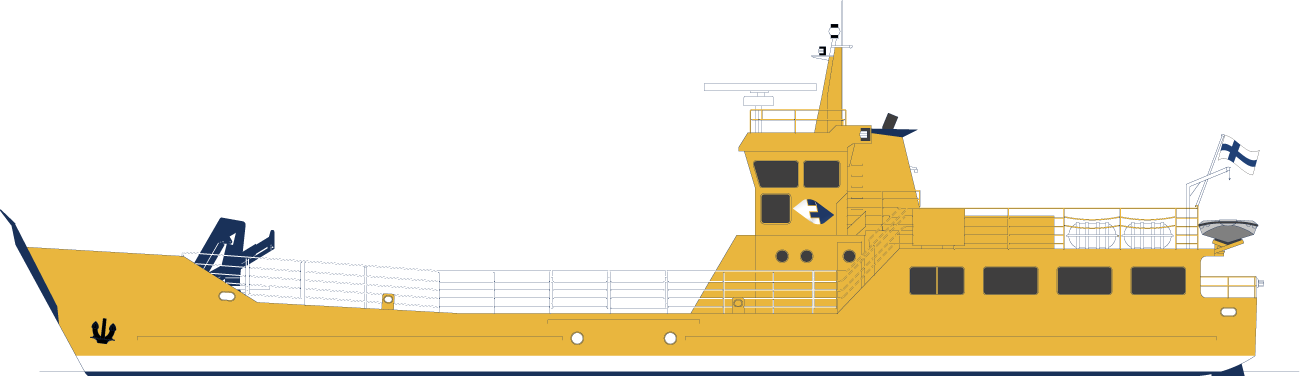
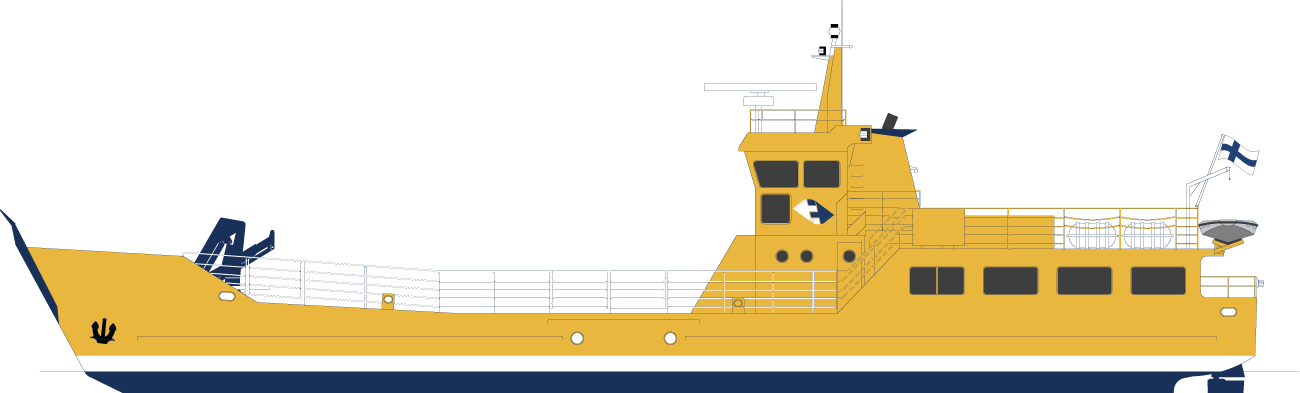
Smooth player boats; Falkö keeps a band of blue bottom
- Player boats and picker thumbnails draw from copies pre-shrunk to
  their on-screen size with high-quality smoothing, so edges are
  anti-aliased; spec points are converted to the smaller texture.
- Falkö obstacle is now mirrored from the hand-cut inbox/falko-cut.png,
  keeping a navy band at the waterline; hitbox and wake points updated.

diff --git a/src/scenes/GameScene.ts b/src/scenes/GameScene.ts
@@ -314,26 +314,65 @@ export class GameScene extends Phaser.Scene {
   /** Dress the player sprite as the chosen boat: art, size, hitbox, bounds. */
   private applyBoat() {
     const spec = this.boatSpec;
-    this.boat.setTexture(spec.key);
-    this.boat.setScale((spec.width * OBJECT_SCALE) / this.boat.frame.width);
+    // Draw from a copy pre-shrunk to the on-screen size (smooth edges); the
+    // spec's points are in original-image px, so convert them by `r`.
+    const width = spec.width * OBJECT_SCALE;
+    this.boat.setTexture(this.smoothTexture(spec.key, width));
+    const r = this.boatTexRatio();
+    this.boat.setScale(width / this.boat.frame.width);
     // Hitbox covers the main hull only, for forgiving collisions. Arcade takes
-    // these in source-image px and scales them with the sprite.
+    // these in texture px and scales them with the sprite.
     const [hx, hy, hw, hh] = spec.hit;
     const body = this.boat.body as Body;
-    body.setSize(hw, hh, false);
-    body.setOffset(hx, hy);
+    body.setSize(hw * r, hh * r, false);
+    body.setOffset(hx * r, hy * r);
     // Bounds keep the boat inside the play area (it clamps to the edges instead
     // of dying there — the only way to fail is touching an obstacle). The
     // bottom is raised by the art below the hitbox, so the hull's visual
     // bottom lands on the deck line rather than crossing it.
-    const below = (this.boat.frame.height - hy - hh) * this.boat.scaleY;
+    const below = (this.boat.frame.height - (hy + hh) * r) * this.boat.scaleY;
     this.physics.world.setBounds(0, 0, GAME_WIDTH, PLAY_HEIGHT - below);
+  }
+
+  /** Player texture px per original-image px (the texture is a shrunk copy). */
+  private boatTexRatio() {
+    return this.boat.frame.width / this.textures.getFrame(this.boatSpec.key).width;
+  }
+
+  /**
+   * A copy of an image shrunk to `width` px with high-quality smoothing, in
+   * halving steps. Shrinking a big image a lot on the GPU each frame samples
+   * only a few of its pixels and leaves jagged edges; drawing a copy at its
+   * on-screen size gives smooth, anti-aliased ones. Cached in the texture
+   * manager, so it is made once per size.
+   */
+  private smoothTexture(key: string, width: number) {
+    const target = Math.max(1, Math.round(width));
+    const out = `${key}@${target}`;
+    if (this.textures.exists(out)) return out;
+    const src = this.textures.get(key).getSourceImage() as HTMLImageElement;
+    const step = (from: CanvasImageSource, w: number, h: number) => {
+      const c = document.createElement("canvas");
+      c.width = w;
+      c.height = h;
+      const ctx = c.getContext("2d")!;
+      ctx.imageSmoothingEnabled = true;
+      ctx.imageSmoothingQuality = "high";
+      ctx.drawImage(from, 0, 0, w, h);
+      return c;
+    };
+    let canvas = step(src, src.width, src.height);
+    while (canvas.width / 2 > target) canvas = step(canvas, Math.ceil(canvas.width / 2), Math.ceil(canvas.height / 2));
+    canvas = step(canvas, target, Math.max(1, Math.round((src.height * target) / src.width)));
+    this.textures.addCanvas(out, canvas);
+    return out;
   }
 
   /** A point on the player's boat in source-image px, as world coordinates (follows its tilt). */
   private boatPoint(px: number, py: number) {
-    const ox = (px - this.boat.frame.width / 2) * this.boat.scaleX;
-    const oy = (py - this.boat.frame.height / 2) * this.boat.scaleY;
+    const r = this.boatTexRatio();
+    const ox = (px * r - this.boat.frame.width / 2) * this.boat.scaleX;
+    const oy = (py * r - this.boat.frame.height / 2) * this.boat.scaleY;
     const c = Math.cos(this.boat.rotation);
     const s = Math.sin(this.boat.rotation);
     return { x: this.boat.x + c * ox - s * oy, y: this.boat.y + s * ox + c * oy };
@@ -356,8 +395,9 @@ export class GameScene extends Phaser.Scene {
     this.pickerCards = PLAYER_BOATS.map((spec, i) => {
       const x = x0 + i * (cardW + gap);
       const card = this.add.graphics();
-      const thumb = this.add.image(x + cardW / 2, y + cardH / 2, spec.key);
-      thumb.setScale(Math.min((cardW - 16) / thumb.width, (cardH - 16) / thumb.height));
+      const src = this.textures.getFrame(spec.key);
+      const fit = Math.min((cardW - 16) / src.width, (cardH - 16) / src.height);
+      const thumb = this.add.image(x + cardW / 2, y + cardH / 2, this.smoothTexture(spec.key, src.width * fit));
       const hit = this.add
         .zone(x, y, cardW, cardH)
         .setOrigin(0)
@@ -1124,9 +1164,9 @@ export class GameScene extends Phaser.Scene {
       b.setSize(473, 47);
       b.setOffset(59, 158);
     } else {
-      // Falkö image (1300 x 376, mirrored, cut at the waterline): main hull
+      // Falkö image (1300 x 393, mirrored, cut at the waterline): main hull
       // below the superstructure
-      b.setSize(1021, 128);
+      b.setSize(1021, 145);
       b.setOffset(140, 243);
     }
 
@@ -1142,8 +1182,8 @@ export class GameScene extends Phaser.Scene {
       this.addVesselWake(ob, type, 290 * scale, 96 * scale, 1.2 * OBJECT_SCALE);
       this.addVesselBowWave(ob, type, -287 * scale, 96 * scale, 1.5 * OBJECT_SCALE);
     } else if (type === "falko") {
-      this.addVesselWake(ob, type, 594 * scale, 184 * scale, 1.2 * OBJECT_SCALE);
-      this.addVesselBowWave(ob, type, -565 * scale, 184 * scale, 1.5 * OBJECT_SCALE);
+      this.addVesselWake(ob, type, 593 * scale, 194 * scale, 1.2 * OBJECT_SCALE);
+      this.addVesselBowWave(ob, type, -532 * scale, 194 * scale, 1.5 * OBJECT_SCALE);
     }
 
     ob.setData("scored", false);

diff --git a/tools/art/mirror_falko.py b/tools/art/mirror_falko.py
@@ -1,12 +1,10 @@
-# Left-facing Falkö for use as an obstacle: paints out the "FALKÖ" name on the
-# bow (it would read mirrored), cuts the hull off at the waterline just above
-# the propeller recess and rudder (so they stay unseen under water), then
-# mirrors the image.
+# Left-facing Falkö for use as an obstacle, from the hand-cut
+# inbox/falko-cut.png (hull already cut at the waterline, keeping a band of
+# the blue bottom): paints out the "FALKÖ" name on the bow (it would read
+# mirrored), then mirrors the image.
 import sys
 from PIL import Image, ImageDraw, ImageOps
 
 im = Image.open(sys.argv[1]).convert("RGBA")
 ImageDraw.Draw(im).rectangle([1158, 263, 1220, 286], fill=(233, 182, 62, 255))
-WATERLINE = 376
-im = im.crop((0, 0, im.width, WATERLINE))
 ImageOps.mirror(im).save(sys.argv[2], optimize=True)

diff --git a/CLAUDE.md b/CLAUDE.md
@@ -50,7 +50,7 @@ when changing anything.
   `sea`, `sea_sheen`,
   `foam_ring`. Add new art
   here, not as an image import. The one exception is the player boat,
-  `public/falko.png` (mirrored with its name painted out into `falko_left.png`
+  `inbox/falko-cut.png` (hand-cut at the waterline, mirrored with its name painted out into `public/falko_left.png`
   by `tools/art/mirror_falko.py`, loaded as the `falko` obstacle) and the ferry Utö,
   `public/ferry.png` (`ferry`; cleaned and downscaled from `inbox/uto2-left.png`
   with the mirrored lettering painted out), and `public/suomenlinna.png`
@@ -137,7 +137,7 @@ divide display-px values by `scaleX/scaleY`.
   `WIDE_GAP` around obstacles wider than `WIDE_WIDTH`, and by `ROCK_GAP`
   between consecutive rocks/islands), with `MIN_SPAWN_GAP` so a fast
   vessel never overlaps a slow one at the edge. Random Y, immovable, no gravity. Each type
-  (`rock`/`ferry`/`suomenlinna`/`vejde`/`falko`) sets a **hitbox smaller than its art** for
+  (`rock`/`ferry`/`suomenlinna`/`falko`) sets a **hitbox smaller than its art** for
   forgiving collisions. Scoring/culling happens in `updateScoreAndCull`.
 - **Draw order**: boats and obstacles are painter-sorted with
   `depthAt(hitbox centre y)` (between 1 and 2), so the player's boat passes

diff --git a/tools/art/README.md b/tools/art/README.md
@@ -9,7 +9,7 @@ background):
 cd tools/art
 python3 draw_suomenlinna.py ../../public/suomenlinna.png /tmp/suomenlinna_preview.png
 python3 draw_vejde.py ../../public/vejde_right.png /tmp/vejde_preview.png
-python3 mirror_falko.py ../../public/falko.png ../../public/falko_left.png
+python3 mirror_falko.py ../../inbox/falko-cut.png ../../public/falko_left.png
 python3 draw_buster.py ../../inbox/buster-xl.png ../../public/buster.png /tmp/buster_preview.png
 ```
 
